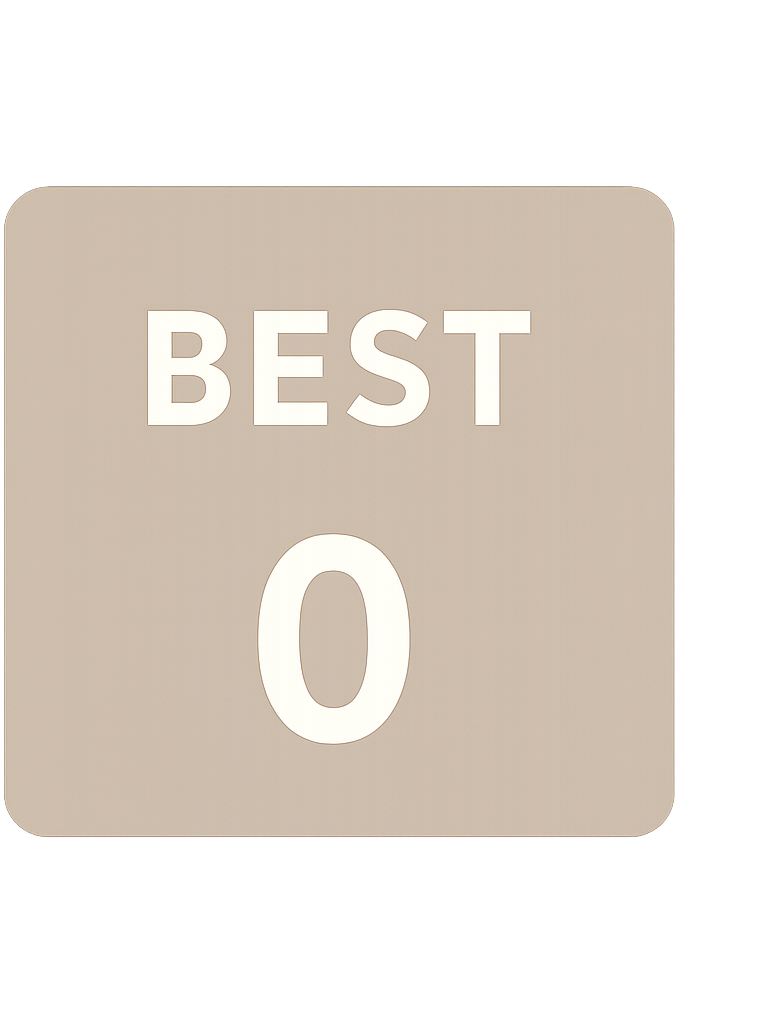
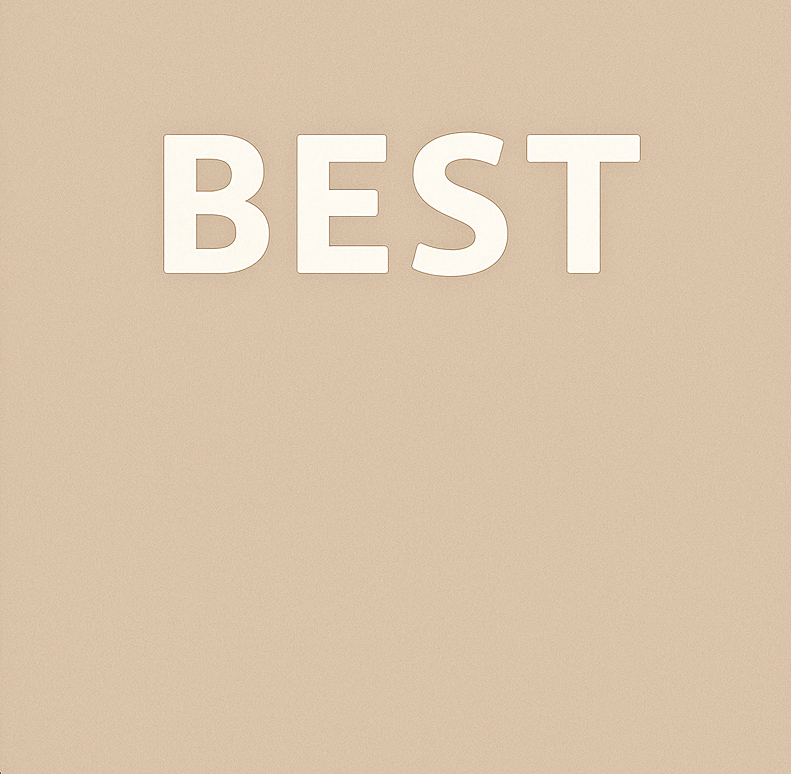
2048_Demo

diff --git a/main.cpp b/main.cpp
@@ -2,8 +2,24 @@
 #include "Image.h"
 #include "Grid.h"
 #include "Logic.h"
+
+#include <string>
 using namespace std;
 const int SCREEN_WIDTH = 700, SCREEN_HEIGHT = 650;
+
+void renderScore(SDL_Renderer* renderer, TTF_Font* font, int score, int x, int y)
+{
+    SDL_Color color = {255, 255, 255};
+    string text = to_string(score);
+    SDL_Surface* surface = TTF_RenderText_Blended(font, text.c_str(), color);
+    SDL_Texture* texture = SDL_CreateTextureFromSurface(renderer, surface);
+    int textW, textH;
+    SDL_QueryTexture(texture, NULL, NULL, &textW, &textH);
+    SDL_Rect textRect = {x - textW / 2, y - textH / 2 + 12, textW, textH};
+    SDL_RenderCopy(renderer, texture, NULL, &textRect);
+    SDL_FreeSurface(surface);
+    SDL_DestroyTexture(texture);
+}
 
 int main(int argc, char* argv[])
 {
@@ -16,6 +32,8 @@ int main(int argc, char* argv[])
     Window window("Game 2048", SCREEN_WIDTH, SCREEN_HEIGHT);
     SDL_Renderer* renderer = window.getRenderer();
     Image image("Image/2048_mainImage.png", renderer);
+    Image scoreBox("Image/score.png", renderer);
+    Image bestBox("Image/best.png", renderer);
 
     TTF_Font* font = TTF_OpenFont("Image/Roboto-Regular.ttf", 25);
     if (!font)
@@ -29,6 +47,7 @@ int main(int argc, char* argv[])
 
     bool running = true;
     bool gameOver = false;
+    bool win = false;
     spawnRandomNumber();
     spawnRandomNumber();
 
@@ -38,33 +57,39 @@ int main(int argc, char* argv[])
         while (SDL_PollEvent(&event))
         {
             if (event.type == SDL_QUIT) running = false;
-            else if (event.type == SDL_KEYDOWN && !gameOver)
+            else if (event.type == SDL_KEYDOWN)
             {
-                switch (event.key.keysym.sym)
+                if (!gameOver && !win)
                 {
-                    case SDLK_LEFT:
-                        moveLeft();
-                        break;
-                    case SDLK_RIGHT:
-                        moveRight();
-                        break;
-                    case SDLK_UP:
-                        moveUp();
-                        break;
-                    case SDLK_DOWN:
-                        moveDown();
-                        break;
+                    switch (event.key.keysym.sym)
+                    {
+                        case SDLK_LEFT:
+                            moveLeft();
+                            break;
+                        case SDLK_RIGHT:
+                            moveRight();
+                            break;
+                        case SDLK_UP:
+                            moveUp();
+                            break;
+                        case SDLK_DOWN:
+                            moveDown();
+                            break;
+                    }
+                    if (checkWin()) win = true;
+                    if (!canMove()) gameOver = true;
                 }
-                if (!canMove()) gameOver = true;
-            }
-            else if (event.type == SDL_KEYDOWN && gameOver)
-            {
-                if (event.key.keysym.sym == SDLK_r)
+                else if (gameOver || win)
                 {
-                    memset(board, 0, sizeof(board));
-                    spawnRandomNumber();
-                    spawnRandomNumber();
-                    gameOver = false;
+                    if (event.key.keysym.sym == SDLK_r)
+                    {
+                        memset(board, 0, sizeof(board));
+                        score = 0;
+                        spawnRandomNumber();
+                        spawnRandomNumber();
+                        gameOver = false;
+                        win = false;
+                    }
                 }
             }
         }
@@ -72,6 +97,11 @@ int main(int argc, char* argv[])
         SDL_SetRenderDrawColor(renderer, 250, 248, 239, 255);
         SDL_RenderClear(renderer);
         image.renderer(0, 0, SCREEN_WIDTH, SCREEN_HEIGHT);
+        scoreBox.renderer(149, 95, 140, 80);
+        bestBox.renderer(410, 95, 140, 80);
+        renderScore(renderer, font, score, 219, 138);
+        renderScore(renderer, font, best, 481, 138);
+
         drawBoard(renderer, SCREEN_WIDTH, SCREEN_HEIGHT, font);
 
         if (gameOver)
@@ -81,7 +111,20 @@ int main(int argc, char* argv[])
             SDL_Texture* texture = SDL_CreateTextureFromSurface(renderer, surface);
             int textW, textH;
             SDL_QueryTexture(texture, NULL, NULL, &textW, &textH);
-            SDL_Rect textRect = { (SCREEN_WIDTH - textW) / 2, SCREEN_HEIGHT - 80, textW, textH };
+            SDL_Rect textRect = { (SCREEN_WIDTH - textW) / 2, (SCREEN_HEIGHT - textH) / 2 + 45, textW, textH };
+            SDL_RenderCopy(renderer, texture, NULL, &textRect);
+            SDL_FreeSurface(surface);
+            SDL_DestroyTexture(texture);
+        }
+
+        if (win)
+        {
+            SDL_Color color = {0, 128, 0};
+            SDL_Surface* surface = TTF_RenderText_Solid(font, "You win! Press R to restart", color);
+            SDL_Texture* texture = SDL_CreateTextureFromSurface(renderer, surface);
+            int textW, textH;
+            SDL_QueryTexture(texture, NULL, NULL, &textW, &textH);
+            SDL_Rect textRect = { (SCREEN_WIDTH - textW) / 2, (SCREEN_HEIGHT - textH) / 2 + 45, textW, textH };
             SDL_RenderCopy(renderer, texture, NULL, &textRect);
             SDL_FreeSurface(surface);
             SDL_DestroyTexture(texture);
@@ -89,6 +132,7 @@ int main(int argc, char* argv[])
 
         SDL_RenderPresent(renderer);
     }
+
     TTF_CloseFont(font);
     TTF_Quit();
     return 0;

diff --git a/Logic.cpp b/Logic.cpp
@@ -173,3 +173,15 @@ bool canMove()
     }
     return false;
 }
+
+bool checkWin()
+{
+    for (int row = 0; row < GRID_SIZE; row++)
+    {
+        for (int col = 0; col < GRID_SIZE; col++)
+        {
+            if (board[row][col] == 2048) return true;
+        }
+    }
+    return false;
+}

diff --git a/Logic.h b/Logic.h
@@ -11,4 +11,5 @@ void moveUp();
 void moveDown();
 void spawnRandomNumber();
 bool canMove();
+bool checkWin();
 #endif // LOGIC_H
